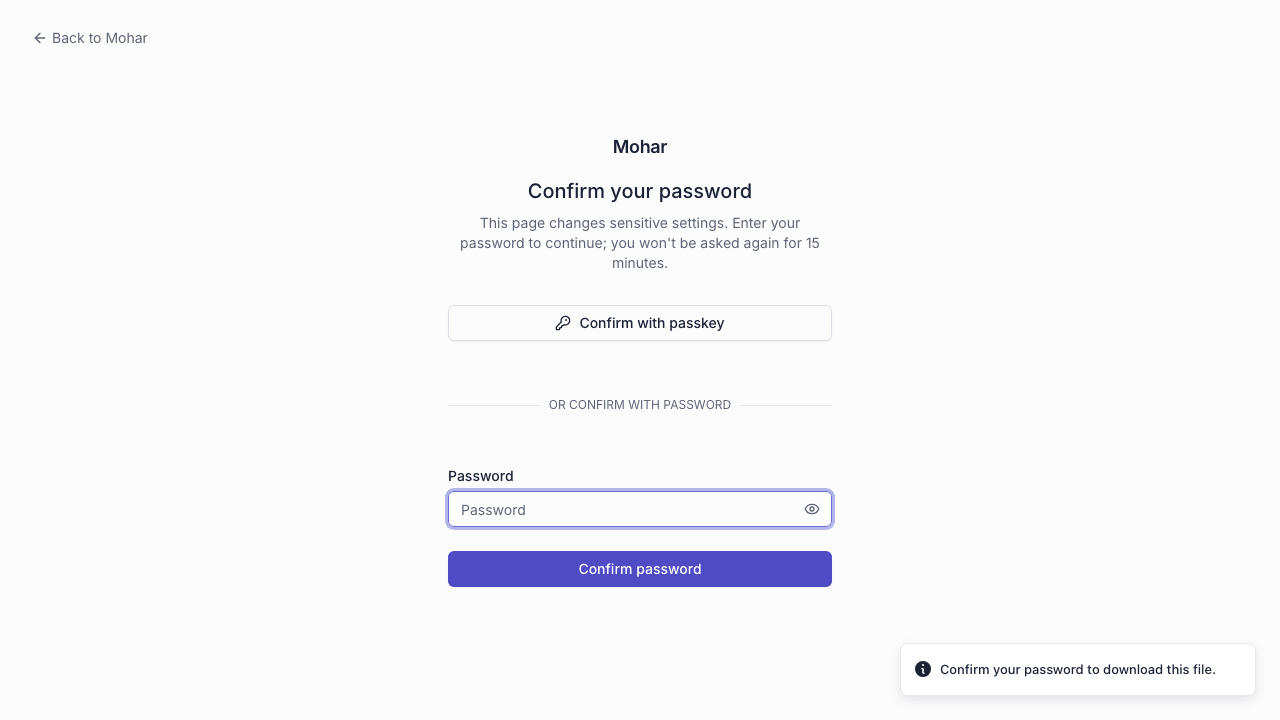
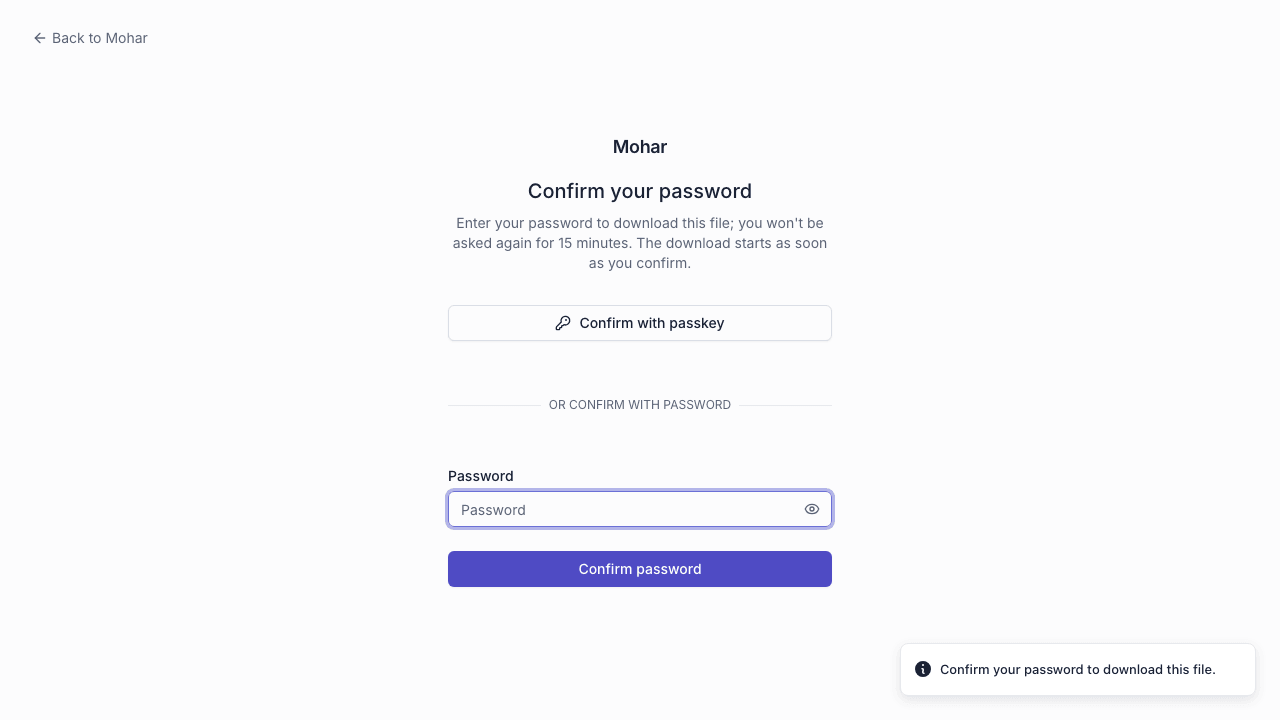
fix(security): answer HEAD in step-up, cancelable download event, drop stale intended URL (#272)

Changed region(s): [[0.3438, 0.3056, 0.6562, 0.3972]]

diff --git a/billing/resources/js/components/app/step-up-download-link.tsx b/billing/resources/js/components/app/step-up-download-link.tsx
@@ -1,7 +1,25 @@
 import type { AnchorHTMLAttributes, MouseEvent } from 'react';
+import { useState } from 'react';
 
-/** Fired on `window` when a download needs a recent password; `PasswordConfirmationGate` listens for it. */
+/**
+ * Fired on `window` (cancelable) when a download needs a recent password. `PasswordConfirmationGate` listens for it
+ * and cancels it; a layout without a gate leaves it uncancelled, and the link then navigates to the file so the
+ * server sends the user to the confirm-password page.
+ */
 export const STEP_UP_DOWNLOAD_EVENT = 'step-up:download';
+
+/** Ask a mounted gate to confirm the password for a download; false when nothing handled the event. */
+export function requestStepUpDownload(
+    target: EventTarget,
+    url: string,
+): boolean {
+    return !target.dispatchEvent(
+        new CustomEvent(STEP_UP_DOWNLOAD_EVENT, {
+            cancelable: true,
+            detail: { url },
+        }),
+    );
+}
 
 /**
  * A link to a file behind the `password.recent` middleware. A plain click asks the server (a probe that never
@@ -14,6 +32,8 @@ export function StepUpDownloadLink({
     onClick,
     ...props
 }: AnchorHTMLAttributes<HTMLAnchorElement> & { href: string }) {
+    const [checking, setChecking] = useState(false);
+
     const open = async (event: MouseEvent<HTMLAnchorElement>) => {
         onClick?.(event);
 
@@ -29,6 +49,7 @@ export function StepUpDownloadLink({
         }
 
         event.preventDefault();
+        setChecking(true);
 
         try {
             const response = await fetch(href, {
@@ -41,20 +62,28 @@ export function StepUpDownloadLink({
             });
 
             if (response.status === 423) {
-                window.dispatchEvent(
-                    new CustomEvent(STEP_UP_DOWNLOAD_EVENT, {
-                        detail: { url: href },
-                    }),
-                );
+                const handled = requestStepUpDownload(window, href);
 
-                return;
+                if (handled) {
+                    return;
+                }
             }
         } catch {
             // Offline or blocked: let the browser try the link itself.
+        } finally {
+            setChecking(false);
         }
 
         window.location.assign(href);
     };
 
-    return <a href={href} onClick={open} {...props} />;
+    return (
+        <a
+            href={href}
+            onClick={open}
+            aria-busy={checking}
+            className={checking ? 'opacity-60' : undefined}
+            {...props}
+        />
+    );
 }

diff --git a/billing/resources/js/pages/auth/confirm-password.tsx b/billing/resources/js/pages/auth/confirm-password.tsx
@@ -1,4 +1,4 @@
-import { Form } from '@inertiajs/react';
+import { Form, setLayoutProps } from '@inertiajs/react';
 import { Head } from '@/components/app/head';
 import InputError from '@/components/input-error';
 import PasswordInput from '@/components/password-input';
@@ -12,7 +12,18 @@ import {
 } from '@/actions/Laravel/Passkeys/Http/Controllers/PasskeyConfirmationController';
 import PasskeyVerify from '@/components/passkey-verify';
 
-export default function ConfirmPassword() {
+export default function ConfirmPassword({
+    download = false,
+}: {
+    download?: boolean;
+}) {
+    if (download) {
+        setLayoutProps({
+            description:
+                "Enter your password to download this file; you won't be asked again for 15 minutes. The download starts as soon as you confirm.",
+        });
+    }
+
     return (
         <>
             <Head title="Confirm password" />

diff --git a/billing/resources/js/lib/__tests__/step-up-download.test.ts b/billing/resources/js/lib/__tests__/step-up-download.test.ts
@@ -1,0 +1,25 @@
+import { describe, expect, it } from 'vitest';
+import {
+    requestStepUpDownload,
+    STEP_UP_DOWNLOAD_EVENT,
+} from '@/components/app/step-up-download-link';
+
+describe('requestStepUpDownload', () => {
+    it('is handled when a gate cancels the event, and passes the url', () => {
+        const target = new EventTarget();
+        let url = '';
+        target.addEventListener(STEP_UP_DOWNLOAD_EVENT, (event) => {
+            event.preventDefault();
+            url = (event as CustomEvent<{ url: string }>).detail.url;
+        });
+
+        expect(requestStepUpDownload(target, '/file.csv')).toBe(true);
+        expect(url).toBe('/file.csv');
+    });
+
+    it('is not handled on a layout with no gate, so the link navigates to the server', () => {
+        expect(requestStepUpDownload(new EventTarget(), '/file.csv')).toBe(
+            false,
+        );
+    });
+});

diff --git a/billing/resources/js/components/app/password-confirmation-gate.tsx b/billing/resources/js/components/app/password-confirmation-gate.tsx
@@ -69,6 +69,7 @@ export function PasswordConfirmationGate() {
         });
 
         const onDownload = (event: Event) => {
+            event.preventDefault();
             setPassword('');
             setError(null);
             setPending({

diff --git a/billing/tests/Feature/Security/StepUpDownloadProbesTest.php b/billing/tests/Feature/Security/StepUpDownloadProbesTest.php
@@ -1,0 +1,97 @@
+<?php
+
+use App\Models\User;
+use App\Modules\Core\Models\ActivityLog;
+use App\Modules\Core\Models\Currency;
+use Illuminate\Support\Facades\Storage;
+use Tests\Support\Migration\ClientCsv;
+
+/**
+ * Review probes for PR #299 (#272). Each test states the behaviour the review expects.
+ */
+beforeEach(function () {
+    Storage::fake('objects');
+    Currency::factory()->create(['code' => 'NPR', 'is_default' => true]);
+    $this->staff = actingAsStaff();
+    confirmPassword();
+    $this->run = ClientCsv::check(ClientCsv::upload(ClientCsv::file([ClientCsv::row('1', 'not-an-email')])));
+    $this->url = route('admin.migration.imports.errors', $this->run);
+    $this->flushSession();
+});
+
+function errorsDownloads(): int
+{
+    return ActivityLog::query()->where('event', 'migration.errors_downloaded')->count();
+}
+
+test('probe: HEAD without a recent password redirects and writes no audit row', function () {
+    $this->withSession(['auth.password_confirmed_at' => 0]);
+    $this->call('HEAD', $this->url)->assertRedirect(route('password.confirm'));
+    expect(errorsDownloads())->toBe(0);
+});
+
+// Fails at 35f526ad: a HEAD reaches the controller, which logs "Client import errors downloaded" before streaming.
+test('probe: HEAD with a recent password does not record a download', function () {
+    confirmPassword();
+    $this->call('HEAD', $this->url);
+    expect(errorsDownloads())->toBe(0);
+});
+
+test('probe: method override cannot turn a POST into a safe request', function () {
+    $this->withSession(['auth.password_confirmed_at' => 0]);
+    $this->post($this->url, ['_method' => 'GET'], ['X-Step-Up-Check' => '1'])->assertStatus(405);
+    $this->post($this->url.'?_method=HEAD', [], ['X-Step-Up-Check' => '1'])->assertStatus(405);
+    $this->post(route('admin.migration.imports.accept', $this->run), ['_method' => 'OPTIONS'], ['X-Step-Up-Check' => '1'])
+        ->assertStatus(200)->assertContent('');
+    expect(errorsDownloads())->toBe(0);
+});
+
+test('probe: a trailing slash or upper-case path still hits step-up', function () {
+    $this->withSession(['auth.password_confirmed_at' => 0]);
+    $this->get($this->url.'/')->assertRedirect(route('password.confirm'));
+    expect(errorsDownloads())->toBe(0);
+});
+
+test('probe: a cross-origin preflight for the probe header is not allowed', function () {
+    $response = $this->call('OPTIONS', $this->url, server: [
+        'HTTP_ORIGIN' => 'https://evil.example',
+        'HTTP_ACCESS_CONTROL_REQUEST_METHOD' => 'GET',
+        'HTTP_ACCESS_CONTROL_REQUEST_HEADERS' => 'x-step-up-check',
+    ]);
+    expect($response->headers->get('Access-Control-Allow-Origin'))->toBeNull();
+});
+
+test('probe: the 423 answer carries nothing but the message', function () {
+    config(['app.debug' => false]);
+    $this->withSession(['auth.password_confirmed_at' => 0]);
+    $body = $this->getJson($this->url, ['X-Step-Up-Check' => '1'])->assertStatus(423)->json();
+    expect(array_keys($body))->toBe(['message']);
+});
+
+test('probe: the probe answers before authorization (staff without the permission gets 204)', function () {
+    $this->actingAs(User::factory()->staff(['clients.view'])->create());
+    confirmPassword();
+    $this->get($this->url, ['X-Step-Up-Check' => '1'])->assertNoContent();
+    $this->get($this->url)->assertForbidden();
+});
+
+test('probe: the remembered URL is always this app, never another host', function () {
+    $this->withSession(['auth.password_confirmed_at' => 0]);
+    $this->get($this->url.'?next=https://evil.example', ['Host' => 'localhost'])->assertRedirect(route('password.confirm'));
+    expect(parse_url(session('url.intended'), PHP_URL_HOST))->toBe(parse_url(config('app.url'), PHP_URL_HOST));
+});
+
+test('probe: a confirm through the dialog (JSON) drops the remembered file URL', function () {
+    $this->withSession(['auth.password_confirmed_at' => 0]);
+    $this->get($this->url)->assertRedirect(route('password.confirm'));
+    $this->postJson(route('password.confirm.store'), ['password' => 'password'])->assertCreated();
+    // Fixed in the fix round: a later confirm on the full page lands on the default, not the CSV.
+    expect(session('url.intended'))->toBeNull();
+});
+
+test('probe: signing out drops the remembered file URL, so login lands on the default', function () {
+    $this->withSession(['auth.password_confirmed_at' => 0]);
+    $this->get($this->url)->assertRedirect(route('password.confirm'));
+    $this->post(route('logout'));
+    expect(session('url.intended'))->toBeNull();
+});

diff --git a/billing/app/Http/Middleware/RequireRecentPasswordConfirmation.php b/billing/app/Http/Middleware/RequireRecentPasswordConfirmation.php
@@ -14,6 +14,9 @@ use Symfony\Component\HttpFoundation\Response;
  * auth.step_up_seconds. It lives in the kernel and is aliased in bootstrap/app.php, so every module's sensitive
  * routes resolve whichever modules are installed (#81).
  *
+ * Laravel's own `password.confirm` (RequirePassword) is not reused: it reads a different timestamp window
+ * (`auth.password_timeout`), and ADR 0018 §4 makes `auth.step_up_seconds` the one step-up window.
+ *
  * Unlike Laravel's RequirePassword (which redirects, and so cannot resume a POST), this rejects the request:
  * JSON clients get 423, Inertia gets a "password_confirmation" validation error that the UI turns into a
  * confirm-password dialog before retrying.
@@ -21,7 +24,11 @@ use Symfony\Component\HttpFoundation\Response;
  * Downloads (GET routes, #272) cannot use that dialog by themselves, so they have three paths, all of which keep the
  * rule that the file is never sent without a recent confirmation:
  * - a probe (`X-Step-Up-Check` header on a safe request) is answered here, 204 or 423, and never reaches the
- *   controller; the download link uses it to open the dialog first and then navigate to the file;
+ *   controller; the download link uses it to open the dialog first and then navigate to the file. It reports
+ *   only whether this session's password confirmation is recent: a missing permission still shows as 403 when
+ *   the link then navigates;
+ * - a HEAD request is answered here too (204, or the confirm page) and never reaches the controller, so it
+ *   cannot write a download audit row or build the file;
  * - a plain browser GET or HEAD is sent to the confirm-password page like Laravel's RequirePassword does, and
  *   returns to the file afterwards;
  * - an Inertia GET (the confirm page's own redirect back to the file, or a link followed by the router) is turned
@@ -45,6 +52,10 @@ class RequireRecentPasswordConfirmation
             return $confirmed ? response()->noContent() : abort(423, __('Password confirmation required.'));
         }
 
+        if ($request->isMethod('HEAD')) {
+            return $confirmed ? response()->noContent() : $this->toConfirmPage();
+        }
+
         if ($safe && $request->header('X-Inertia')) {
             return Inertia::location($request->fullUrl());
         }
@@ -58,12 +69,18 @@ class RequireRecentPasswordConfirmation
         }
 
         if ($safe) {
-            Inertia::flash('toast', ['type' => 'info', 'message' => __('Confirm your password to download this file.')]);
-
-            return redirect()->guest(route('password.confirm'));
+            return $this->toConfirmPage();
         }
 
         throw ValidationException::withMessages([self::ERROR_KEY => __('Confirm your password to continue.')]);
+    }
+
+    private function toConfirmPage(): Response
+    {
+        Inertia::flash('toast', ['type' => 'info', 'message' => __('Confirm your password to download this file.')]);
+        session()->put('step_up_download', true);
+
+        return redirect()->guest(route('password.confirm'));
     }
 
     public static function recentlyConfirmed(Request $request): bool

diff --git a/billing/tests/Feature/Security/StepUpDownloadTest.php b/billing/tests/Feature/Security/StepUpDownloadTest.php
@@ -1,5 +1,6 @@
 <?php
 
+use App\Http\Middleware\RequireRecentPasswordConfirmation;
 use App\Modules\Core\Models\ActivityLog;
 use App\Modules\Core\Models\Currency;
 use Illuminate\Support\Facades\Storage;
@@ -39,6 +40,16 @@ test('a stale confirmation counts as none, and a wrong password does not unlock 
     $this->get($this->url)->assertRedirect(route('password.confirm'));
 });
 
+test('the confirm page says it is for a download, and a dialog confirm forgets the remembered file', function () {
+    $this->withSession(['auth.password_confirmed_at' => 0]);
+    $this->get($this->url)->assertRedirect(route('password.confirm'));
+
+    $this->get(route('password.confirm'))->assertInertia(fn ($page) => $page->component('auth/confirm-password')->where('download', true));
+
+    $this->postJson(route('password.confirm.store'), ['password' => 'password'])->assertCreated();
+    expect(session('url.intended'))->toBeNull()->and(session('step_up_download'))->toBeNull();
+});
+
 test('a probe says whether the file may be fetched and never reaches the controller', function () {
     $this->withSession(['auth.password_confirmed_at' => 0]);
     $this->get($this->url, ['X-Step-Up-Check' => '1'])->assertStatus(423);
@@ -68,7 +79,7 @@ test('a mutation without a recent password is still refused with the validation 
 
 test('every GET route behind step-up is a download this fix covers', function () {
     $routes = collect(app('router')->getRoutes()->getRoutes())
-        ->filter(fn ($route) => in_array('GET', $route->methods(), true) && in_array('password.recent', $route->gatherMiddleware(), true))
+        ->filter(fn ($route) => in_array('GET', $route->methods(), true) && collect($route->gatherMiddleware())->contains(fn ($middleware) => is_string($middleware) && (str_starts_with($middleware, 'password.recent') || str_starts_with($middleware, RequireRecentPasswordConfirmation::class))))
         ->map(fn ($route) => $route->getName())->sort()->values()->all();
 
     expect($routes)->toBe(['admin.migration.imports.errors']);

diff --git a/billing/app/Providers/FortifyServiceProvider.php b/billing/app/Providers/FortifyServiceProvider.php
@@ -4,6 +4,7 @@ namespace App\Providers;
 
 use App\Actions\Fortify\CreateNewUser;
 use App\Actions\Fortify\ResetUserPassword;
+use App\Http\Responses\PasswordConfirmedResponse;
 use App\Http\Responses\PasswordResetFailedResponse;
 use App\Http\Responses\PasswordResetLinkRequestedResponse;
 use Illuminate\Cache\RateLimiting\Limit;
@@ -16,6 +17,7 @@ use Illuminate\Validation\Rules\Password;
 use Inertia\Inertia;
 use Laravel\Fortify\Contracts\FailedPasswordResetLinkRequestResponse;
 use Laravel\Fortify\Contracts\FailedPasswordResetResponse;
+use Laravel\Fortify\Contracts\PasswordConfirmedResponse as PasswordConfirmedResponseContract;
 use Laravel\Fortify\Contracts\SuccessfulPasswordResetLinkRequestResponse;
 use Laravel\Fortify\Features;
 use Laravel\Fortify\Fortify;
@@ -30,6 +32,7 @@ class FortifyServiceProvider extends ServiceProvider
         // Known and unknown addresses get the same response on POST /forgot-password.
         $this->app->bind(SuccessfulPasswordResetLinkRequestResponse::class, PasswordResetLinkRequestedResponse::class);
         $this->app->bind(FailedPasswordResetLinkRequestResponse::class, PasswordResetLinkRequestedResponse::class);
+        $this->app->bind(PasswordConfirmedResponseContract::class, PasswordConfirmedResponse::class);
         // …and the same error on POST /reset-password, whether or not the address has an account.
         $this->app->bind(FailedPasswordResetResponse::class, PasswordResetFailedResponse::class);
     }
@@ -83,7 +86,9 @@ class FortifyServiceProvider extends ServiceProvider
 
         Fortify::twoFactorChallengeView(fn () => Inertia::render('auth/two-factor-challenge'));
 
-        Fortify::confirmPasswordView(fn () => Inertia::render('auth/confirm-password'));
+        Fortify::confirmPasswordView(fn (Request $request) => Inertia::render('auth/confirm-password', [
+            'download' => (bool) $request->session()->get('step_up_download', false),
+        ]));
     }
 
     /**

diff --git a/billing/app/Http/Responses/PasswordConfirmedResponse.php b/billing/app/Http/Responses/PasswordConfirmedResponse.php
@@ -1,0 +1,29 @@
+<?php
+
+namespace App\Http\Responses;
+
+use Illuminate\Http\JsonResponse;
+use Laravel\Fortify\Contracts\PasswordConfirmedResponse as PasswordConfirmedResponseContract;
+use Laravel\Fortify\Fortify;
+use Symfony\Component\HttpFoundation\Response;
+
+/**
+ * Fortify's answer to a confirmed password. A confirm through the step-up dialog (JSON) is not a return to a
+ * remembered file or page, so it drops the URL a download link stored in `url.intended` (#272); the full-page
+ * confirm still returns to it.
+ */
+class PasswordConfirmedResponse implements PasswordConfirmedResponseContract
+{
+    public function toResponse($request): Response
+    {
+        $request->session()->forget('step_up_download');
+
+        if ($request->wantsJson()) {
+            $request->session()->forget('url.intended');
+
+            return new JsonResponse('', 201);
+        }
+
+        return redirect()->intended(Fortify::redirects('password-confirmation'));
+    }
+}
